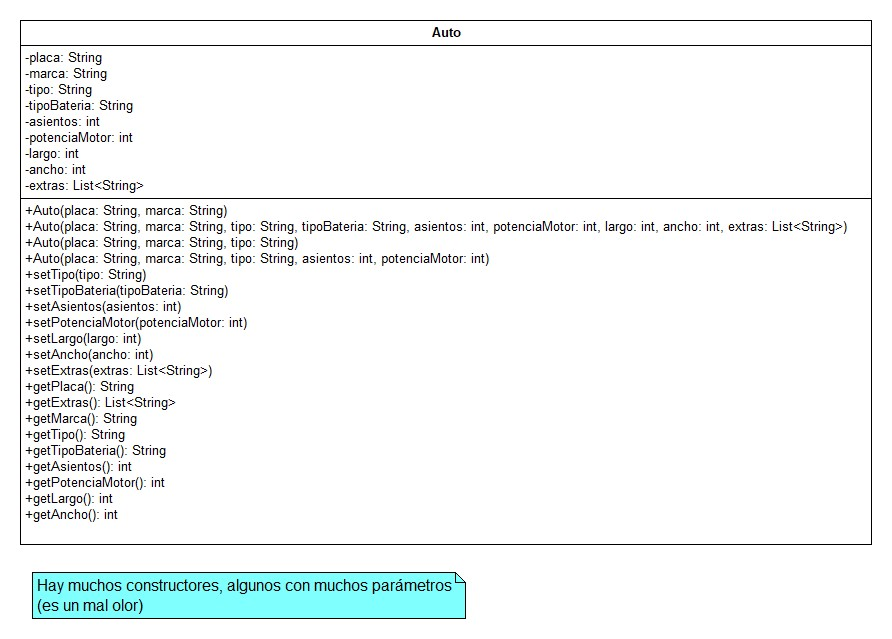
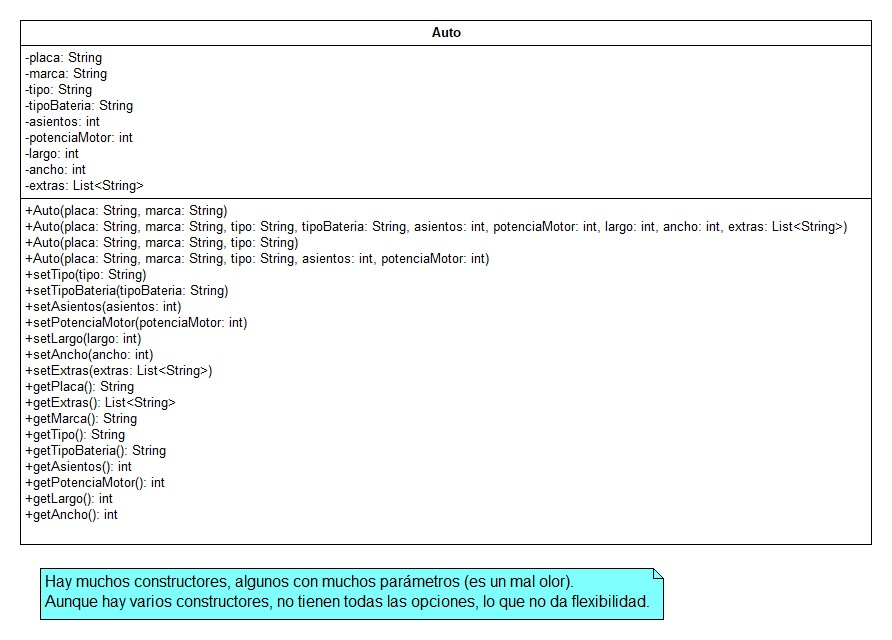
Patrón Builder - Solución

Changed region(s): [[0.0303, 0.1189, 0.9686, 0.9812], [0.4238, 0.3865, 0.5146, 0.4163]]

diff --git a/src/builder/solucion/Auto.java b/src/builder/solucion/Auto.java
@@ -1,0 +1,145 @@
+package builder.solucion;
+
+import java.util.ArrayList;
+import java.util.List;
+
+/**
+ * Un vehículo que tiene varias características,
+ * algunas opcionales, por lo que define una clase interna
+ * que será el constructor (patrón BUILDER).
+ * 
+ * @version 2.0
+ */
+public class Auto {
+	private String placa;
+	private String marca;
+	private String tipo;
+	private String tipoBateria;
+	private int asientos;
+	private int potenciaMotor;
+	private int largo;
+	private int ancho;
+	private List<String> extras;
+	
+	public Auto(String placa, String marca) {
+		this.placa = placa;
+		this.marca = marca;
+		this.extras = new ArrayList<>();
+	}
+	
+	public static Builder constructor(String placa, String marca) {
+		return new Builder(placa, marca);
+	}
+
+	public void setTipo(String tipo) {
+		this.tipo = tipo;
+	}
+
+	public void setTipoBateria(String tipoBateria) {
+		this.tipoBateria = tipoBateria;
+	}
+
+	public void setAsientos(int asientos) {
+		this.asientos = asientos;
+	}
+
+	public void setPotenciaMotor(int potenciaMotor) {
+		this.potenciaMotor = potenciaMotor;
+	}
+
+	public void setLargo(int largo) {
+		this.largo = largo;
+	}
+
+	public void setAncho(int ancho) {
+		this.ancho = ancho;
+	}
+
+	public void setExtras(List<String> extras) {
+		this.extras = extras;
+	}
+
+	public String getPlaca() {
+		return this.placa;
+	}
+	
+	public String getMarca() {
+		return marca;
+	}
+
+	public String getTipo() {
+		return tipo;
+	}
+
+	public String getTipoBateria() {
+		return tipoBateria;
+	}
+
+	public int getAsientos() {
+		return asientos;
+	}
+
+	public int getPotenciaMotor() {
+		return potenciaMotor;
+	}
+
+	public int getLargo() {
+		return largo;
+	}
+
+	public int getAncho() {
+		return ancho;
+	}
+
+	public List<String> getExtras() {
+		return extras;
+	}
+	
+	public static class Builder {
+		private Auto auto;
+		
+		public Builder(String placa, String marca) {
+			auto = new Auto(placa,marca);
+		}
+		
+		public Builder tipo(String tipo) {
+			auto.setTipo(tipo);
+			return this;
+		}
+		
+		public Builder tipoBateria(String tipoBateria) {
+			auto.setTipoBateria(tipoBateria);
+			return this;
+		}
+		
+		public Builder asientos(int asientos) {
+			auto.setAsientos(asientos);
+			return this;
+		}
+		
+		public Builder potenciaMotor(int potenciaMotor) {
+			auto.setPotenciaMotor(potenciaMotor);
+			return this;
+		}
+		
+		public Builder largo(int largo) {
+			auto.setLargo(largo);
+			return this;
+		}
+		
+		public Builder ancho(int ancho) {
+			auto.setAncho(ancho);
+			return this;
+		}
+		
+        public Builder extra(String extra) {
+            auto.extras.add(extra);
+            return this;
+        }
+        
+        public Auto crear() {
+        	return auto;
+        }
+	}
+	
+}

diff --git a/src/builder/solucion/Agencia.java b/src/builder/solucion/Agencia.java
@@ -1,0 +1,67 @@
+package builder.solucion;
+
+import java.util.ArrayList;
+import java.util.List;
+import java.util.Map;
+
+/**
+ * Sitio que tiene varios autos para los clientes.
+ * 
+ * @version 2.0
+ */
+public class Agencia {
+
+	private List<Auto> autos;
+
+	public Agencia() {
+		this.autos = new ArrayList<>();
+	}
+
+
+	/**
+	 * Adiciona un auto, pero primero debe crearlo usando el constructor (Builder).
+	 * 
+	 * @param datosAuto un map con los valores para los atributos del auto
+	 * 			(la clave es el nombre del atributo).
+	 * @param extras una lista de cadenas con los elementos extra del auto.
+	 */
+	public void addAuto(Map<String, String> datosAuto, List<String> extras) {
+		String placa = datosAuto.get("placa");
+		String marca = datosAuto.get("marca");
+		
+		Auto.Builder constructor = Auto.constructor(placa, marca);
+		
+		// Adiciona solo los atributos de los que se tenga valor.
+		if (datosAuto.containsKey("tipo")) {
+			constructor.tipo(datosAuto.get("tipo"));
+		}
+		if (datosAuto.containsKey("tipoBateria")) {
+			constructor.tipo(datosAuto.get("tipoBateria"));
+		}
+		if (datosAuto.containsKey("asientos")) {
+			constructor.asientos(Integer.parseInt(datosAuto.get("asientos")));
+		}
+		if (datosAuto.containsKey("potenciaMotor")) {
+			constructor.potenciaMotor(Integer.parseInt(datosAuto.get("potenciaMotor")));
+		}
+		if (datosAuto.containsKey("largo")) {
+			constructor.largo(Integer.parseInt(datosAuto.get("largo")));
+		}
+		if (datosAuto.containsKey("ancho")) {
+			constructor.ancho(Integer.parseInt(datosAuto.get("ancho")));
+		}
+		if (extras != null) {
+			for (String extra : extras) {
+				constructor.extra(extra);
+			}
+		}
+
+		autos.add(constructor.crear());
+	}
+	
+
+	public Auto buscarAuto(String placa) {
+		return autos.stream().filter(auto -> placa.equals(auto.getPlaca()))
+				.findFirst().orElse(null);
+	}
+}

diff --git a/test/builder/solucion/AutoTest.java b/test/builder/solucion/AutoTest.java
@@ -1,0 +1,41 @@
+package builder.solucion;
+
+import static org.junit.jupiter.api.Assertions.*;
+import org.junit.jupiter.api.Test;
+
+class AutoTest {
+
+	@Test
+	void crearAutoCompletotest() {
+		Auto auto = Auto.constructor("QWE-123","Renault Sandero").
+				tipo("SUV").tipoBateria("Litio").asientos(5).
+				potenciaMotor(250).largo(3000).ancho(1200).
+				extra("GPS").extra("Bloqueo central").crear();
+		
+        assertEquals("QWE-123", auto.getPlaca());
+        assertEquals("Renault Sandero", auto.getMarca());
+        assertEquals("SUV", auto.getTipo());
+        assertEquals("Litio", auto.getTipoBateria());
+        assertEquals(5, auto.getAsientos());
+        assertEquals(250, auto.getPotenciaMotor());
+        assertEquals(3000, auto.getLargo());
+        assertEquals(1200, auto.getAncho());
+        assertEquals(2, auto.getExtras().size());
+	}
+	
+	@Test
+	void crearAutoPocosValorestest() {
+		Auto auto = Auto.constructor("THW-489","KIA Sport").crear();
+		
+        assertEquals("THW-489", auto.getPlaca());
+        assertEquals("KIA Sport", auto.getMarca());
+        assertNull(auto.getTipo());
+        assertNull(auto.getTipoBateria());
+        assertEquals(0, auto.getAsientos());
+        assertEquals(0, auto.getPotenciaMotor());
+        assertEquals(0, auto.getLargo());
+        assertEquals(0, auto.getAncho());
+        assertEquals(0, auto.getExtras().size());
+	}
+	
+}

diff --git a/test/builder/solucion/AgenciaTest.java b/test/builder/solucion/AgenciaTest.java
@@ -1,0 +1,39 @@
+package builder.solucion;
+
+import static org.junit.jupiter.api.Assertions.*;
+
+import java.util.HashMap;
+import java.util.Map;
+
+import org.junit.jupiter.api.Test;
+
+class AgenciaTest {
+
+	@Test
+	void adicionarAutoTest() {
+		Map<String,String> datosAuto = new HashMap<>();
+		String placa = "KWE-568";
+		datosAuto.put("placa", placa);
+		datosAuto.put("marca", "Nissan Burbuja");
+		datosAuto.put("tipo", "SUV");
+		datosAuto.put("largo", "3100");
+		
+		Agencia agencia = new Agencia();
+		agencia.addAuto(datosAuto, null);
+		Auto auto = agencia.buscarAuto(placa);
+		
+		assertEquals(placa,auto.getPlaca());
+		assertEquals("Nissan Burbuja",auto.getMarca());
+		assertEquals("SUV",auto.getTipo());
+		// Ahora sí pasa la siguiente prueba:
+		assertEquals(3100,auto.getLargo());
+		assertEquals(0,auto.getExtras().size());
+	}
+
+	@Test
+	void buscarAutoNoExisteTest() {
+		Agencia agencia = new Agencia();
+		Auto auto = agencia.buscarAuto("ZZZ");
+		assertNull(auto);
+	}
+}
